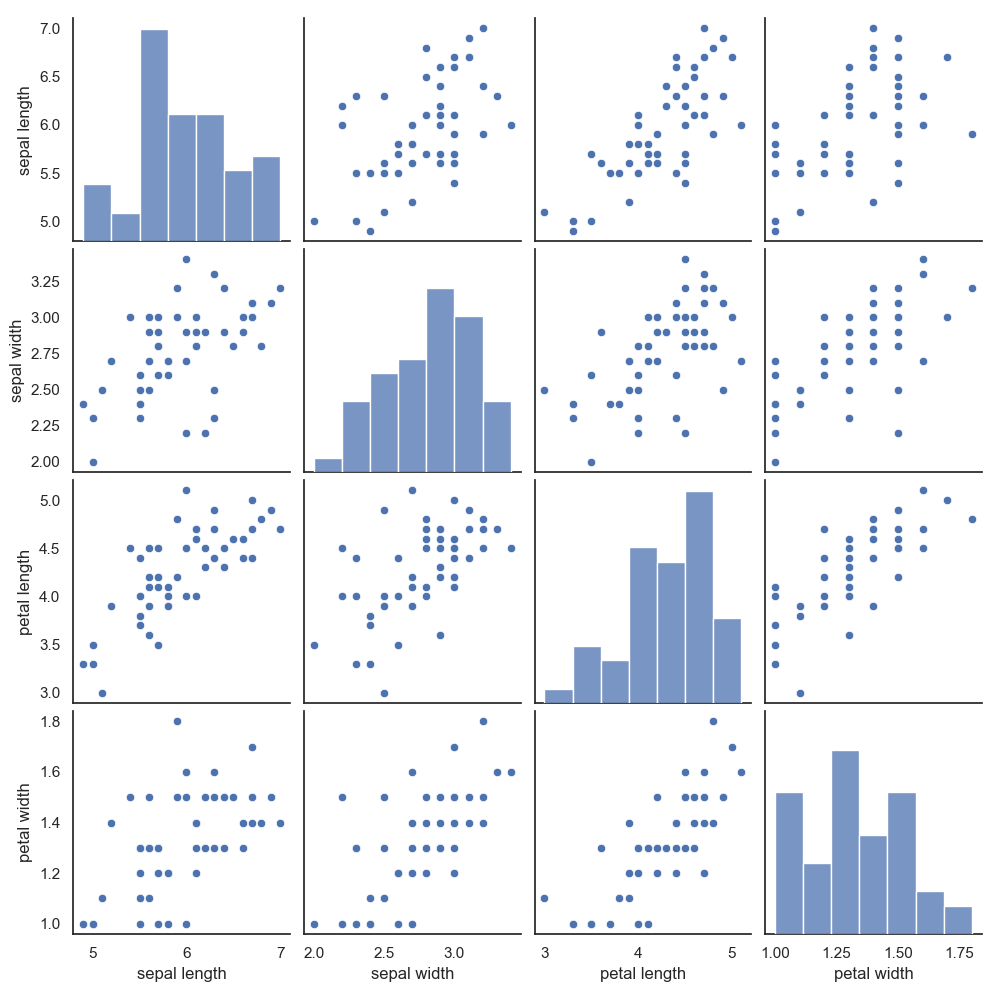
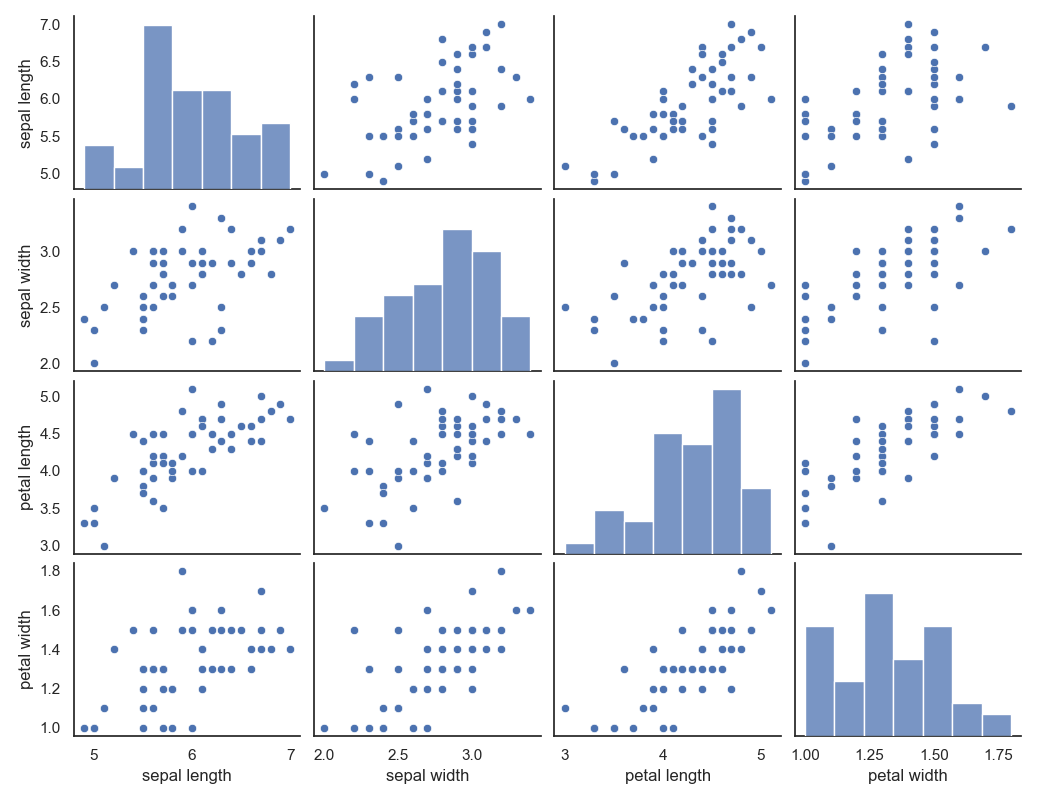
making pairplots smaller

diff --git a/analysis.py b/analysis.py
@@ -146,7 +146,7 @@ plt.savefig('petal_width_varieties.png')
 
 sns.set(style = "white")
 
-sns.pairplot(df, hue = "variety", palette="Dark2", height=2, aspect=1.5)
+sns.pairplot(df, hue = "variety", palette="Dark2", height=2, aspect=1.3)
 plt.savefig('iris_pairplot.png')
 
 
@@ -162,13 +162,13 @@ virginica = df.loc[df['variety']=="Iris-virginica"]
 #sns.pairplot(df, vars=["sepal width", "sepal length"])
 #plt.savefig("sepal_pairplot.png")
 
-sns.pairplot(setosa)
+sns.pairplot(setosa, height= 2, aspect=1.3)
 plt.savefig('setosa_pairplot.png')
 
-sns.pairplot(versicolor)
+sns.pairplot(versicolor, height=2, aspect=1.3)
 plt.savefig('versicolor_pairplot.png')
 
-sns.pairplot(virginica)
+sns.pairplot(virginica, height=2, aspect=1.3)
 plt.savefig('virginica_pairplot.png')
 
 
